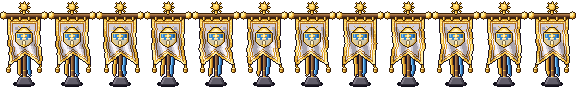
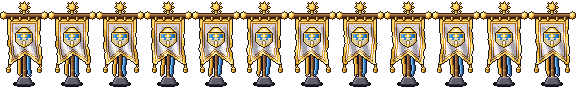
Знамя храмовника и лого, доводка по проверке 8d1a32f: у стяга Сольгарда в лого нет лазурного медальона — герб прямо на белом шёлке, как у «Знамени защиты» (вариант B) и штандарта своих земель; кайма белого шёлка не мерцает — рябь кромки снимает только внешний пиксель (ripOuter), смена сдвига строки 

diff --git a/tools/gen/standards.ts b/tools/gen/standards.ts
@@ -21,7 +21,7 @@ import { fileURLToPath } from "node:url";
 import { PNG } from "pngjs";
 import { PC, hex, pnoise, OUTLINE, type RGBA } from "./canvas";
 import { P } from "./palette";
-import { ARMS, factionEmblem, azureMedallion, SOLGARD_SHIELD_TOP } from "./heraldry";
+import { ARMS, factionEmblem } from "./heraldry";
 
 type Col = RGBA;
 type Fac = "solgard" | "umbrath";
@@ -194,14 +194,20 @@ interface Wind {
   /** Рябь кромок: волна бежит вниз по боковым кромкам (длина rip строк, ровно 1 строка за кадр при rip = N), кромка уходит внутрь на 1 px
    *  во впадине (порог ripT). Пиксель вынимается из ровного поля у каймы — кайма и её внутренняя линия остаются целыми. 0 — без ряби. */
   rip: number; ripT: number;
+  /** Рябь только на внешних ripOuter px кромки (1 — во впадине уходит крайний пиксель каймы): тонкая внутренняя линия и просвет
+   *  каймы не дёргаются относительно ткани. Не задано — вынимается пиксель ровного поля, кайма сдвигается внутрь целиком. */
+  ripOuter?: number;
   /** С какого расстояния до края начинается ровное поле (рябь вынимает пиксели только из него): кайма и шитьё целы. */
   fieldD: number;
   /** Жёсткая кайма: пиксели ближе stiff к краю (густое шитьё) темнеют только в глубине складки, как герб; 0 — нет. */
   stiff?: number;
   /** Тень от перекладины: сколько верхних строк на тон темнее. */
   topShade: number;
-  /** Герб без светотени складок — один тон на весь рисунок (у «Знамени защиты» герб — нашивка на медальоне). */
+  /** Герб без светотени складок — один тон на весь рисунок (у «Знамени защиты» и в эмблеме игры герб Сольгарда лежит прямо на шёлке). */
   embFlat?: boolean;
+  /** Смена сдвига строки держится не меньше 2 кадров (holdShifts): иначе на быстром качании (2 px за 2 кадра) тонкие линии каймы
+   *  проходят пиксель за кадр и мигают «через кадр». Размах и цикл качания те же. */
+  hold?: boolean;
 }
 const WIND_HOME: Wind = { lean: 0.4, sway: 1.6, lag: 7, lambda: N, slant: 0.18, f0: 0.04, f1: 0.42, lightT: 0.62, darkT: 0.3, deepT: 2, embT: 0.75, rip: N, ripT: 0.35, fieldD: 4, topShade: 1 };
 interface Emb { pc: PC; x: number; y: number }
@@ -221,7 +227,7 @@ function smoothRuns(a: number[]) {
 }
 /** План ветра на весь цикл: сдвиги строк sx[t][v] и рябь кромок eL/eR[t][v] (1 — у кромки вынут пиксель поля, кромка ушла внутрь).
  *  Сдвиг строки и сама кромка (сдвиг ± вынутый пиксель) меняются не больше чем на 1 px за кадр, включая шов цикла: если рябь
- *  совпала со шагом строки в ту же сторону, она ждёт кадр. */
+ *  совпала со шагом строки в ту же сторону, она ждёт кадр. С Wind.hold смена сдвига строки держится не меньше 2 кадров. */
 interface WindPlan { sx: number[][]; eL: number[][]; eR: number[][] }
 /** Без рывков: значение, державшееся один кадр и вернувшееся (0,1,0), снимается; после — снова без одиночных строк в кадре. */
 function noReturns(arrs: number[][][], H: number) {
@@ -278,6 +284,7 @@ function windPlan(tex: PC, w: Wind): WindPlan {
   }
   noReturns([sx, eL, eR], H);
   stepLimit(sx, H);
+  if (w.hold) holdShifts(sx, H);
   for (const [e, sgn, edge] of [[eL, 1, first], [eR, -1, last]] as [number[][], number, number[]][]) for (let v = 0; v < H; v++) {
     if (!canCut[v] || !straight(edge, v)) continue;
     const at = (t: number) => sx[(t + N) % N][v] + sgn * e[(t + N) % N][v];
@@ -299,6 +306,48 @@ function windPlan(tex: PC, w: Wind): WindPlan {
   cache.set(w, plan);
   return plan;
 }
+/** Цикл значений без рывков: шаг ≤ 1 (и на шве цикла), каждое значение держится не меньше 2 кадров. */
+function heldTwo(a: number[]) {
+  const n = a.length;
+  if (a.every((q) => q === a[0])) return true;
+  for (let t = 0; t < n; t++) {
+    const p = a[(t + n - 1) % n], q = a[t], r = a[(t + 1) % n];
+    if (Math.abs(r - q) > 1 || (p !== q && q !== r)) return false;
+  }
+  return true;
+}
+/** Wind.hold: строка, где сдвиг держится один кадр (2 px за 2 кадра), заменяется ближайшей последовательностью с удержанием ≥ 2 кадров —
+ *  каждый кадр отличается от плана не больше чем на 1 px, размах строки тот же, изменённых кадров меньше всего; при равенстве — ближе
+ *  к строке выше (волна по-прежнему бежит вниз), перепад между соседними строками ≤ 1 px. */
+function holdShifts(sx: number[][], H: number) {
+  for (let v = 0; v < H; v++) {
+    const old = sx.map((r) => r[v]);
+    if (heldTwo(old)) continue;
+    const up = v > 0 ? sx.map((r) => r[v - 1]) : null, lo = Math.min(...old), hi = Math.max(...old);
+    let best: number[] | null = null, bestCost = Infinity;
+    const cur: number[] = [];
+    const walk = (t: number, cost: number) => {
+      if (cost >= bestCost) return;
+      if (t === N) {
+        if (!heldTwo(cur)) return;
+        let c = cost + (Math.min(...cur) !== lo || Math.max(...cur) !== hi ? 50 : 0);
+        if (up) for (let i = 0; i < N; i++) { const g = Math.abs(cur[i] - up[i]); c += g > 1 ? 1000 : g * 0.01; }
+        if (c < bestCost) { bestCost = c; best = [...cur]; }
+        return;
+      }
+      for (const dv of [0, -1, 1]) {
+        const q = old[t] + dv;
+        if (t > 0 && Math.abs(q - cur[t - 1]) > 1) continue;
+        if (t >= 2 && q !== cur[t - 1] && cur[t - 1] !== cur[t - 2]) continue;      // прежнее значение держалось бы один кадр
+        cur.push(q);
+        walk(t + 1, cost + (dv ? 10 : 0));
+        cur.pop();
+      }
+    };
+    walk(0, 0);
+    if (best) for (let t = 0; t < N; t++) sx[t][v] = best[t];
+  }
+}
 /** Кадр t полотнища с ветром. Слой шире текстуры на M с каждой стороны и на 3 строки ниже; текстура (0, 0) → слой (M, 0). */
 function windCloth(tex: PC, emb: Emb | null, t: number, w: Wind, tone: ToneFn, M = 8): ClothOut {
   const ph = (TAU * t) / N, H = tex.h, TW = tex.w;
@@ -318,11 +367,17 @@ function windCloth(tex: PC, emb: Emb | null, t: number, w: Wind, tone: ToneFn, M
     const us: number[] = [];
     for (let u = 0; u < TW; u++) if (tex.alpha(u, v)) us.push(u);
     if (!us.length) continue;
-    // вынуть по пикселю ровного поля у левой и правой каймы (d ≥ 4, сосед тоже поле)
-    const inner = (k: number) => d[v * TW + us[k]] >= w.fieldD && d[v * TW + us[k + 1]] >= w.fieldD && us[k + 1] === us[k] + 1;
     let cutL = -1, cutR = -1;
-    if (eL[v] && straight(first, v)) for (let k = 0; k < us.length - 1; k++) if (inner(k)) { cutL = k; break; }
-    if (eR[v] && straight(last, v)) for (let k = us.length - 2; k >= 0; k--) if (inner(k) && k !== cutL) { cutR = k + 1; break; }
+    if (w.ripOuter) {
+      // рябь только у края: вынимается пиксель на расстоянии ripOuter от кромки, внешние сдвигаются внутрь — линия и просвет каймы стоят
+      if (eL[v] && straight(first, v)) cutL = w.ripOuter - 1;
+      if (eR[v] && straight(last, v)) cutR = us.length - w.ripOuter;
+    } else {
+      // вынуть по пикселю ровного поля у левой и правой каймы (d ≥ 4, сосед тоже поле)
+      const inner = (k: number) => d[v * TW + us[k]] >= w.fieldD && d[v * TW + us[k + 1]] >= w.fieldD && us[k + 1] === us[k] + 1;
+      if (eL[v] && straight(first, v)) for (let k = 0; k < us.length - 1; k++) if (inner(k)) { cutL = k; break; }
+      if (eR[v] && straight(last, v)) for (let k = us.length - 2; k >= 0; k--) if (inner(k) && k !== cutL) { cutR = k + 1; break; }
+    }
     for (let k = 0; k < us.length; k++) {
       if (k === cutL || k === cutR) continue;
       const shiftIn = cutL >= 0 && k < cutL ? 1 : cutR >= 0 && k > cutR ? -1 : 0;
@@ -1554,7 +1609,8 @@ const SKULL9 = [
   "..MDMDD..",
   "...DDD...",
 ];
-/** Скрещённые штандарты Сольгарда и Умбрата за печатью (вариант 2 и итог): древки, навершия, полотнища с утверждёнными гербами на ветру.
+/** Скрещённые штандарты Сольгарда и Умбрата за печатью (вариант 2 и итог): древки, навершия, полотнища с утверждёнными гербами на ветру;
+ *  у Сольгарда белый шёлк, герб лежит прямо на нём, без медальона.
  *  K — масштаб композиции: 1 — вариант 2 (полотнища 28×36, гербы s20), 1.25 — итог (полотнища 36 и 35 × 45, гербы s24: доля герба на ткани
  *  та же, ширина под чётный и нечётный герб — по центру; череп 9×10); брус, петли и кайма — те же пиксели. */
 function bannerPair(pc: PC, K = 1) {
@@ -1582,9 +1638,10 @@ function bannerPair(pc: PC, K = 1) {
     const P = Math.round(29 * K), Q = Math.round(25 * K);
     const inside = sol ? (x: number, y: number) => y <= P || Math.abs(x + 0.5 - CW / 2) <= CW / 2 - 2 * (y - P) : (x: number, y: number) => x >= (y <= Q ? 0 : Math.ceil((y - Q) / 2)) && x <= CW - 1 - (y <= Q ? 0 : Math.ceil((y - Q) / 2));
     const tex = clothTex(CW, CH, inside, (_x, _y, d) => k.cloth(d));
-    const em = factionEmblem(fac, size), ex = Math.floor((CW - em.w) / 2), dd = distMap(CW, CH, inside), my = big ? 3 : 2;
-    // у Сольгарда щит на нашитом медальоне лазури (как у штандарта своих земель): стена с воротами иначе сливается с белым полем
-    const emb: Emb = sol ? { pc: azureMedallion(em, SOLGARD_SHIELD_TOP[size], (i, j) => (dd[(my + j) * CW + ex - 2 + i] ?? 0) >= 5), x: ex - 2, y: my } : { pc: em, x: ex, y: big ? 5 : 4 };
+    const em = factionEmblem(fac, size), ex = Math.floor((CW - em.w) / 2);
+    // герб у обеих фракций прямо на ткани; у Сольгарда — на белом шёлке без медальона (решение пользователя, вариант Б — как у штандарта
+    //  своих земель и «Знамени защиты»), на прежнем месте
+    const emb: Emb = { pc: em, x: ex, y: big ? 5 : 4 };
     const co = windCloth(tex, emb, sol ? 2 : 8, { ...WIND_HOME, lean: (sol ? -1.3 : 1.3) * K, sway: 0.8 * K, lag: 2.2, embFlat: sol }, k.tone);
     co.L.outline(OUTLINE);
     pc.blit(co.L, X0 - co.M, bar + 3);

diff --git a/tools/gen/vfx-banner.ts b/tools/gen/vfx-banner.ts
@@ -10,7 +10,10 @@
  *  Холст 48×88, основание древка в точке привязки (0.5, 0.955). Ветер — модель штандартов мира (tools/gen/standards.ts): цикл 12 кадров,
  *  12 к/с; полотнище нарисовано плоско, в кадре строки сдвигаются целыми пикселями по плану на весь цикл (шаг ≤ 1 px за кадр, без
  *  возвратов через кадр, волна бежит от перекладины вниз), складки — сдвиг тона по рампе своего материала (цвета не выходят из палитры),
- *  кромки рябят. Герб — целиком и одним тоном (складки на него не ложатся), сдвигается вместе со строкой на своей середине.
+ *  кромки рябят. У Сольгарда тёмная внутренняя линия каймы на белом шёлке контрастна (ΔL* 34–37), поэтому рябь уводит только крайний
+ *  пиксель каймы (линия и просвет стоят на ткани), а смена сдвига строки держится не меньше 2 кадров (в хвосте строка проходила 2 px
+ *  за 2 кадра) — пар «линия ↔ шёлк» с возвратом через кадр нет; размах, цикл и запаздывание качания прежние.
+ *  Герб — целиком и одним тоном (складки на него не ложатся), сдвигается вместе со строкой на своей середине.
  *  Ленты и кисти — по тем же правилам, с запаздыванием; кисть висит на углу полотнища, сдвинутом ветром в этом же кадре.
  *  Запуск отдельно: tsx tools/gen/vfx-banner.ts — tools/out/vfx-preview/banner-raw.png. */
 import path from "node:path";
@@ -70,7 +73,8 @@ const KITS: Record<Fac, Kit> = {
     cloth: (x, y, d) => (d <= 3 || y < 4 ? (d === 1 || y === 0 ? G[3] : d === 3 ? G[1] : (x + y) % 4 === 0 ? G[4] : G[3]) : d === 5 ? G[1] : WH[2]),
     lineD: 5,
     tone: toneFn([WH, [G[0], G[1], G[2], G[3], G[4]]], [SOUT, OUTLINE]),
-    wind: { ...WIND, fieldD: 6 },
+    // рябь — только крайний пиксель каймы, смена сдвига строки — не меньше 2 кадров: тонкая линия на белом шёлке не мигает
+    wind: { ...WIND, fieldD: 6, ripOuter: 1, hold: true },
     pole: [WOOD[3], WOOD[2], WOOD[1]], band: [G[3], G[2], G[1]], bar: [WOOD[3], WOOD[2], WOOD[1], WOOD[0]], knob: [G[1], G[2], G[3], G[4]],
     metalOut: SOUT,
     ribA: [G[3], G[2], G[1]], ribB: [AZ[3], AZ[2], AZ[1]],
